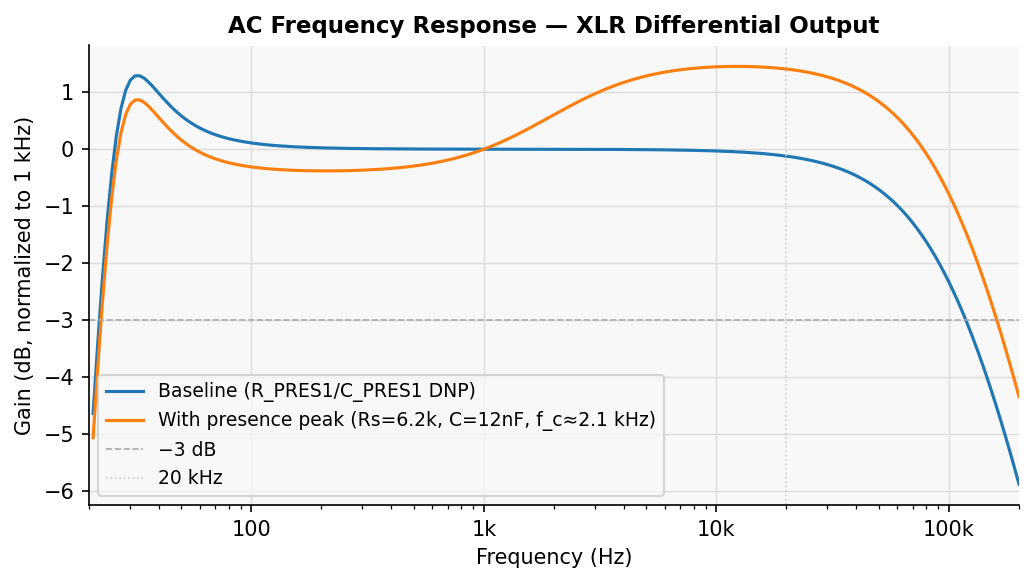
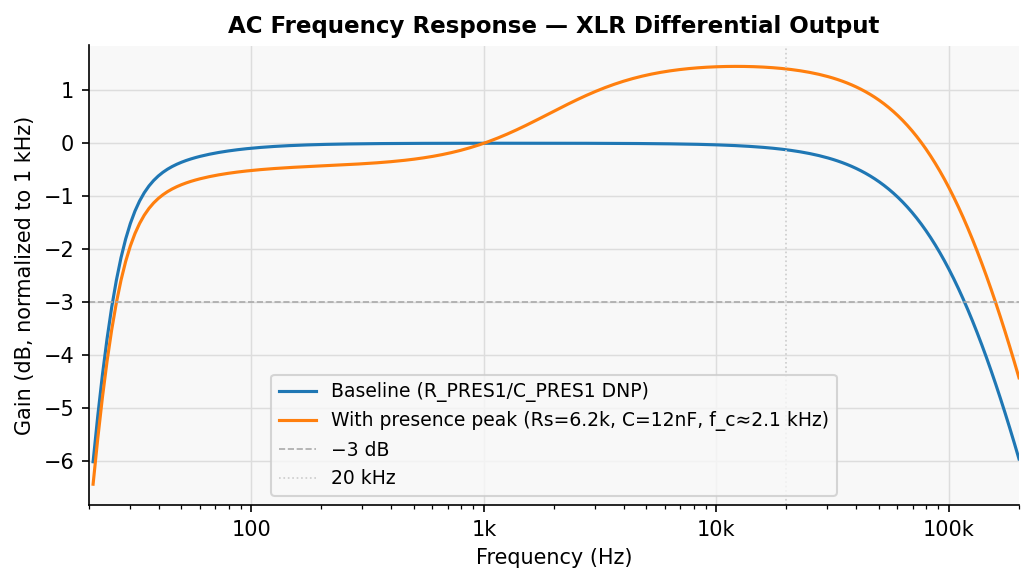
sim, docs: provisional transformer core loss, Rc 3 kOhm (#137)
No data sheet or published figure gives the NTE10/3's core loss, and without
one the model's C_DC and Lp resonate undamped near 26 Hz (+1.2 dB at 30 Hz),
which the measurement does not show. Until the transformer is measured on its
own (#137), Rc = 3 kOhm across the 3-turn section stands in, inferred from
whole-microphone measurements and labelled provisional wherever it appears:
the tap/full ratio (8.8 dB measured, 10.0 without core loss) needs about 2.5
to 3 kOhm, and damping the bump about 4 kOhm.

Sensitivity into 600 ohm -41.7 dBV/Pa (was -40.2); README about -40 / -24
into 1.5 kOhm; CI lower bound -43. Low end on the 3-turn wiring: 20 Hz -6.9,
30 Hz -1.6, 50 Hz -0.4, 100 Hz -0.1 dB. Self-noise unchanged.

Claude-Session: https://claude.ai/code/session_01JJVE6iPs7mqtayJNH2CABt

diff --git a/README.md b/README.md
@@ -14,7 +14,7 @@ This design uses a Dickson charge pump oscillator to generate a 68 V HV rail fro
 - CD40106B Schmitt-trigger oscillator + 3-stage active Dickson charge pump
 - About 57 V capsule polarization (HV_FILT ≈ 69 V, set by the 15 V clock rail; a 75 V zener only protects it), referenced to the 12 V midpoint
 - HV rail RC filter: 1 MΩ (R_HV) + 470 nF, corner ~0.34 Hz; no LC resonance
-- Output sensitivity (simulated, 13 mV/Pa capsule, into a 1.5 kΩ preamp input): about −39 dBV/Pa default (R6 = 5.6 kΩ, gain ≈ 3.5×); about −23 dBV/Pa hi-gain (R6 = 47 kΩ, gain ≈ 22×). About 1.4 dB lower into 600 Ω and 1.1 dB higher unloaded; output impedance is about 200 Ω (about 310 Ω up to v3.6, with 100 Ω RFI resistors; #113)
+- Output sensitivity (simulated, 13 mV/Pa capsule, into a 1.5 kΩ preamp input): about −40 dBV/Pa default (R6 = 5.6 kΩ, gain ≈ 3.5×); about −24 dBV/Pa hi-gain (R6 = 47 kΩ, gain ≈ 22×). These include the transformer's provisional core loss (#137). About 1.4 dB lower into 600 Ω and 1.1 dB higher unloaded; output impedance is about 200 Ω (about 310 Ω up to v3.6, with 100 Ω RFI resistors; #113)
 - Maximum SPL before the op-amp output clips (calculated): about 143 dB SPL peak at default gain, about 127 dB SPL peak at hi-gain
 - RFI filter on XLR output: 47 Ω + 220 pF on each leg (R_RFI1/R_RFI2, C_RFI1/C_RFI2; corner about 15 MHz). C_RFI is rated 100 V because it sits on the phantom-fed pins
 - Phantom power draw: ~4.6 mA typical at 48 V (IEC 61938 P48 rated maximum: 10 mA)
@@ -44,15 +44,16 @@ Charge pump settles to ~68 V within ~1 ms. HV_FILT is RC-filtered (1 MΩ + 470 n
 
 Behavioral model, gain normalized to 1 kHz. The **blue curve** (baseline / DNP) is flat within about ±1 dB from ~500 Hz to ~20 kHz. Two high-pass mechanisms shape the low end: the input network (R_GBIAS1 ∥ R_BIAS1 = 100 MΩ against the 55 pF capsule, corner ~29 Hz) and the output DC block (C_DC = 4.7 µF) with the transformer. A third sits below them: C_G1 (10 µF) in series with R3, corner 7.2 Hz, about 0.7 dB at 20 Hz. It makes the amplifier's gain 1 at DC, so offset and leakage at the 200 MΩ input do not move the operating point (`amp_dc_offset.sp`, #123).
 
-> **Model values come from data sheets, measurements check them (#132).** The transformer's data sheet gives no inductance, only a response of at most −2 dB from 20 Hz to 20 kHz in its intended use. Taking that −2 dB at 20 Hz gives `Lp ≈ 7.4 H` for the driven 3-turn section (the derivation is in `sim/models/passives.lib`), which the plot uses. The model has no core loss, since the data sheet gives nothing to set it from. With the 3-turn section the inductance against the winding resistance (521 to 540 Ω, measured on the part) and C_DC sets the low corner, with a small resonance near 30 Hz.
+> **Model values come from data sheets; measurements check them.** The transformer's data sheet gives no inductance, only a response of at most −2 dB from 20 Hz to 20 kHz in its intended use. Taking that −2 dB at 20 Hz gives `Lp ≈ 7.4 H` for the driven 3-turn section (the derivation is in `sim/models/passives.lib`). The one exception is the transformer's core loss: no data sheet or published figure exists, so the model carries a **provisional** `Rc = 3 kΩ` across the 3-turn section, inferred from whole-microphone measurements, until the transformer is measured on its own (#137). Without it, C_DC and Lp resonate near 26 Hz undamped, a bump the measurement does not show.
 >
 > | | 20 Hz | 30 Hz | 50 Hz | 100 Hz |
 > |---|---|---|---|---|
 > | measured, 3-turn, presence fitted, 1.2 kΩ (relative to 1 kHz; #128) | −5.0 dB | −0.6 dB | −1.4 dB | −0.7 dB |
-> | model, `Lp = 7.4 H` (plotted, baseline) | −5.9 dB | +1.2 dB | +0.6 dB | +0.1 dB |
+> | model, `Lp = 7.4 H`, provisional `Rc = 3 kΩ` (plotted, baseline) | −6.9 dB | −1.6 dB | −0.4 dB | −0.1 dB |
+> | model, `Lp = 7.4 H` without core loss | −5.9 dB | +1.2 dB | +0.6 dB | +0.1 dB |
 > | model, `Lp = 1 H` (the earlier lower bound) | −27 dB | −18 dB | −8 dB | −1 dB |
 >
-> The measured row is on a board with the presence network, which lowers the band below 1 kHz by about 0.4 dB against 1 kHz. The measurement does not show the model's 30 Hz bump, and the measured gain is lower than the model's: both are open in #132. On the full winding the measured response is −3 dB at 33 Hz and −5 dB at 20 Hz, set by the input network.
+> The measured row is on a board with the presence network, which lowers the band below 1 kHz by about 0.4 dB against 1 kHz. On the full winding the measured response is −3 dB at 33 Hz and −5 dB at 20 Hz, set by the input network.
  The **orange curve** shows the optional presence-peak network populated: +2.6 dB shelving above f_c ≈ 2.1 kHz.
 
 #### Optional presence-peak network (R_PRES1, C_PRES1)

diff --git a/docs/measurement.md b/docs/measurement.md
@@ -216,8 +216,8 @@ group of inputs is optional, so a partial session still gives a partial report.
 
 | Result | Simulation | What a difference means |
 |---|---|---|
-| Gain at 1 kHz | about −0.6 dB into 4 kΩ with a 56 pF dummy (sensitivity about −39 dBV/Pa with a 13 mV/Pa capsule); about 0.2 dB lower on boards up to v3.6 (100 Ω RFI resistors) | more than ±1.5 dB off: check R3, R6, the load value and the meter readings |
-| Low-frequency −3 dB corner | about 30 Hz on the full winding (set by the input network); on the 3-turn section about 22 Hz (−5 dB at 20 Hz, nearly flat from 30 Hz) | measured on the 3-turn section (#128); `sim/models/passives.lib` uses 7.4 H derived from the data sheet (#132) |
+| Gain at 1 kHz | about −2.0 dB into 4 kΩ with a 56 pF dummy, with the transformer's provisional core loss (#137) (sensitivity about −40 dBV/Pa with a 13 mV/Pa capsule); about 0.2 dB lower on boards up to v3.6 (100 Ω RFI resistors) | more than ±1.5 dB off: check R3, R6, the load value and the meter readings |
+| Low-frequency −3 dB corner | about 30 Hz on the full winding (set by the input network); on the 3-turn section about 22 Hz (−5 dB at 20 Hz, nearly flat from 30 Hz) | measured on the 3-turn section (#128); `sim/models/passives.lib` uses 7.4 H derived from the data sheet with a provisional core loss (#137) |
 | Fit error | below about 1 dB | larger: the low end is not behaving like the model. Compare with the hot sweep for saturation |
 | Self-noise | about 20 dB(A) equivalent with a 47 to 56 pF dummy (18.9 with a 55 pF capsule); about 45 nV/√Hz at 1 kHz, 12 nV/√Hz at 10 kHz | higher at low frequency only: leakage or hum. Higher everywhere: supply or interface noise. Check the interface margin line |
 | Interface margin | 10 dB or more | less: raise the preamp gain and repeat S3, N1, N2 |
